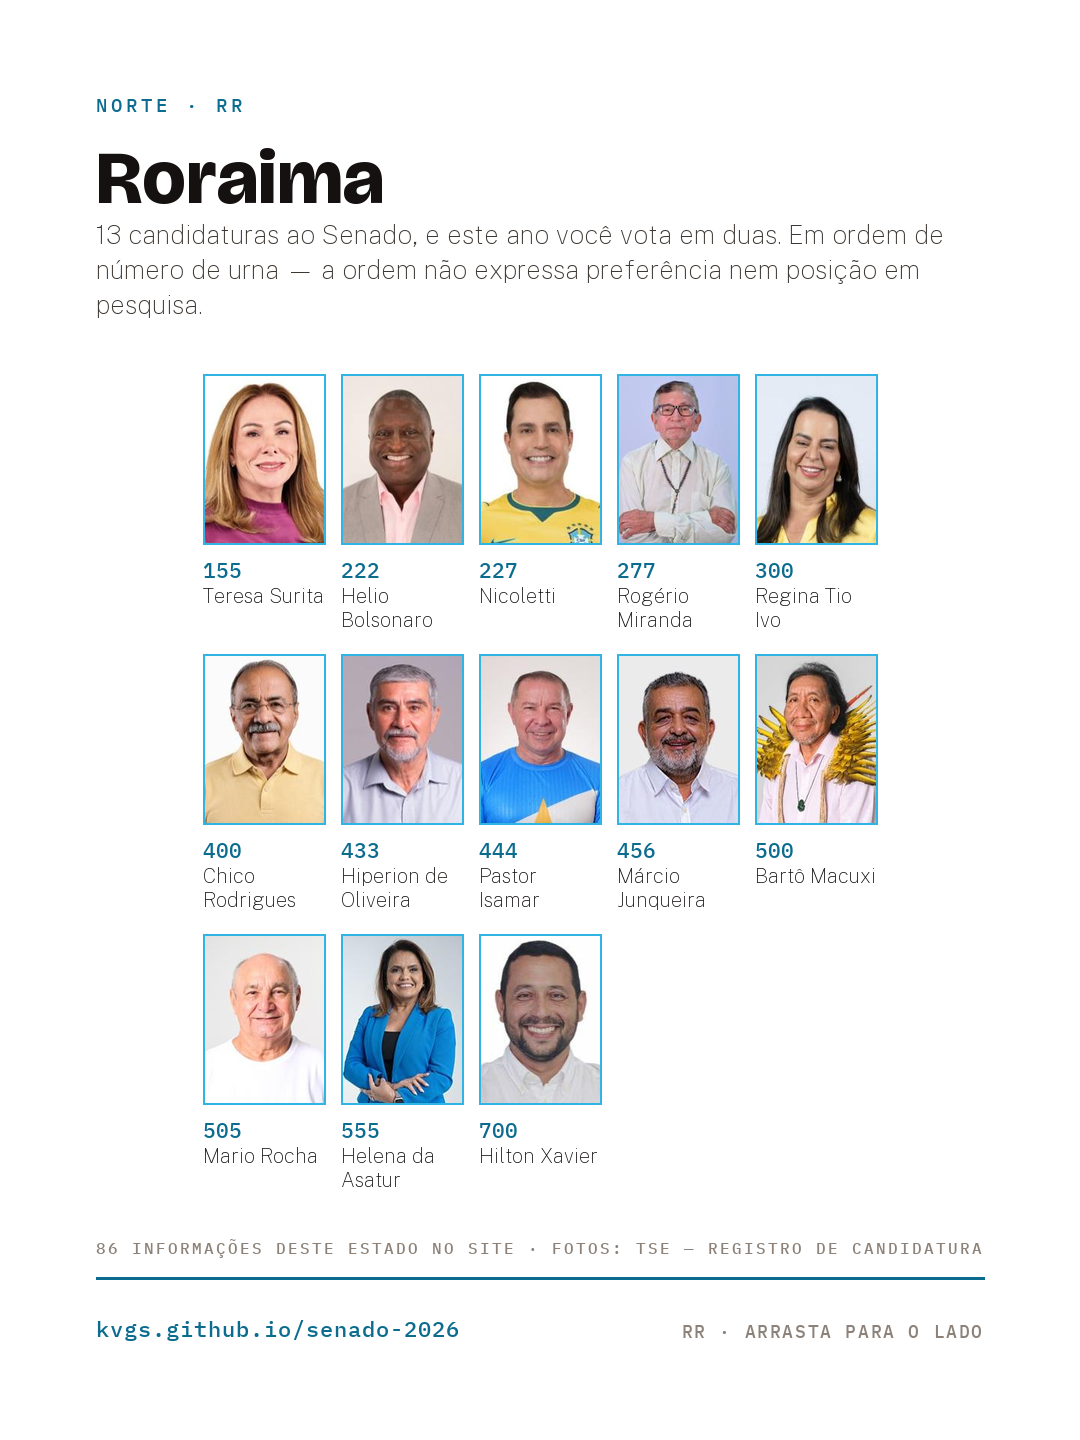
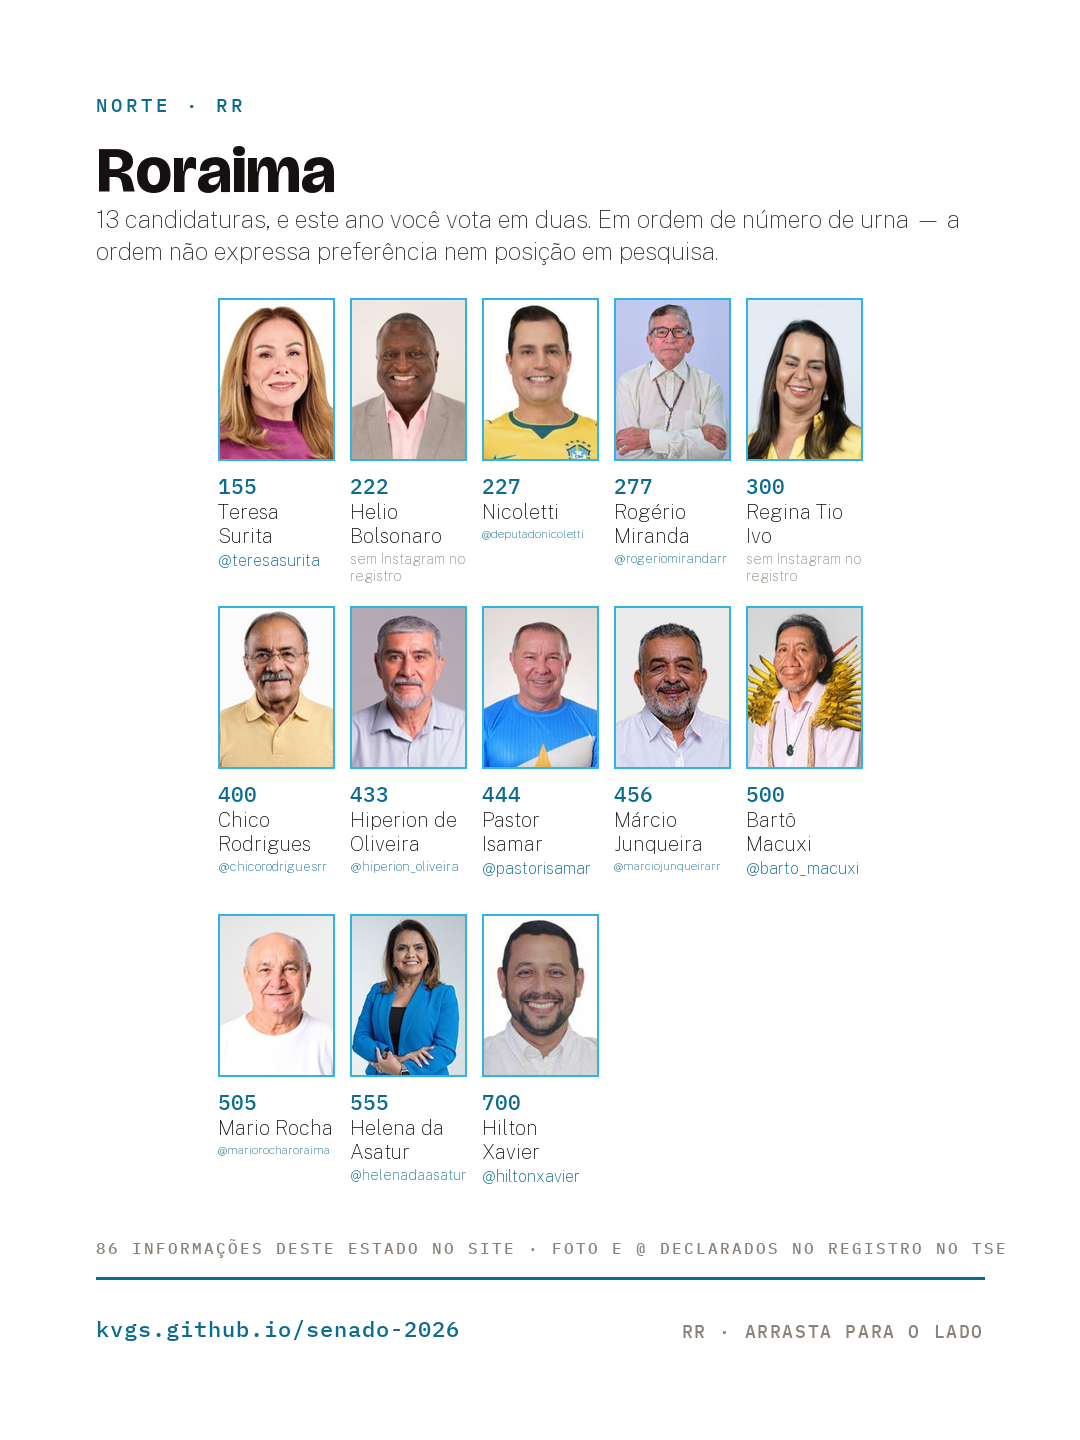
Os slides de estado ganham o @ do Instagram de cada candidatura
Abaixo do nome, o @ declarado ao TSE. No Norte, 60 das 74 tem; as outras 14
recebem "sem Instagram no registro".

"NAO LOCALIZADO" SERIA FALSO PARA A MAIORIA. Das 14 sem @, DEZ nao declararam
nada ao TSE — nao e que a busca falhou, e que nao ha o que buscar na fonte
oficial. Duas declararam outras redes e duas declararam algo que nao vira canal.
"Sem Instagram no registro" e verdade nos tres casos, e mantem a distincao que o
site inteiro faz entre ausencia da FONTE e ausencia da nossa BUSCA.

O @ VEM DO REGISTRO, E NUNCA DE BUSCA NOSSA. E a mesma regra do contato no site:
endereco achado em busca manda o eleitor escrever para um estranho.

AUDITEI OS 60 UM A UM antes de publicar, porque sao identificadores de pessoas
reais: todos saem de uma URL de instagram.com declarada ao TSE; nenhum e
repetido entre candidaturas; nenhum e pagina de partido. Dois vieram da
recuperacao de texto e foram conferidos na linha crua — o de Acir Gurgacz estava
como "INSTAGRAM: HTTPS://WWW.INSTAGRAM.COM/ACIR_GURGACZ/", so com rotulo na
frente.

Dois consertos vistos no PNG:
- OS @ VAZAVAM PARA A CELULA VIZINHA. quebra() corta em ESPACO, e handle nao tem
  espaco: ela devolvia a linha inteira, e "@chicorodrigues" caiu por cima de
  "@hiperion_oliveira". Agora o corpo da fonte cede primeiro e, se nem no menor
  couber, o @ quebra em duas linhas por LARGURA. Nunca com reticencias: handle
  cortado nao serve para procurar ninguem.
[…]

diff --git a/gerar_artes_regiao.py b/gerar_artes_regiao.py
@@ -28,6 +28,7 @@ from __future__ import annotations
 
 import argparse
 import importlib.util
+import re
 import pathlib
 import unicodedata
 
@@ -49,7 +50,16 @@ SOBRE_ESCURO, APAGADO, LINHA_ESCURA = _ar.SOBRE_ESCURO, _ar.APAGADO, _ar.LINHA_E
 RAIZ = pathlib.Path(__file__).resolve().parent
 FOTO_BORDA = "#2FB4E4"          # o mesmo token do site: --foto-borda
 COLS = 5
-CREDITO = "FOTOS: TSE — REGISTRO DE CANDIDATURA"
+CREDITO = "FOTO E @ DECLARADOS NO REGISTRO NO TSE"
+
+# "NAO LOCALIZADO" SERIA FALSO PARA A MAIORIA. Das 14 candidaturas do Norte sem
+# @, dez nao declararam nada ao TSE — nao e que a busca falhou, e que nao ha o
+# que buscar. Outras duas declararam redes que nao sao Instagram, e duas
+# declararam algo que nao vira canal. Uma frase so tem de ser verdade nos tres
+# casos, e "sem Instagram no registro" e: nenhuma das tres tem @ utilizavel no
+# registro. E a mesma distincao que o site inteiro faz entre ausencia da FONTE e
+# ausencia da nossa BUSCA.
+SEM_HANDLE = "sem Instagram no registro"
 
 
 def sem_acento(s: str) -> str:
@@ -58,6 +68,25 @@ def sem_acento(s: str) -> str:
 
 def pasta_da_regiao(regiao: str) -> str:
     return f"5-{sem_acento(regiao).lower().replace(' ', '-')}-quem-sao"
+
+
+def handle_de(c: dict) -> str | None:
+    """O @ vem do que a candidatura declarou AO TSE, e nunca de busca nossa.
+    Contato achado em busca manda o eleitor escrever para um estranho — e a
+    regra do projeto e que contato so entra de fonte oficial.
+
+    Primeiro o campo ja escolhido em contato.instagram; depois, qualquer URL de
+    instagram.com entre as redes declaradas. Caminhos que nao sao perfil (/p/,
+    /reel/) ficam de fora."""
+    ct = c.get("contato") or {}
+    h = (ct.get("instagram") or "").strip()
+    if h:
+        return h if h.startswith("@") else "@" + h
+    for u in (ct.get("redes") or []):
+        m = re.search(r"instagram\.com/@?([A-Za-z0-9._]{2,40})", u, re.I)
+        if m and m.group(1).lower() not in ("p", "reel", "reels", "explore", "channel", "stories"):
+            return "@" + m.group(1).lower()
+    return None
 
 
 def medir(regiao: str) -> dict:
@@ -75,6 +104,7 @@ def medir(regiao: str) -> dict:
             arq = (c.get("foto") or {}).get("arquivo")
             gente.append({"nome": c["pessoa"]["nome_urna"],
                           "numero": str(c["numero_urna"]),
+                          "handle": handle_de(c),
                           "foto": RAIZ / arq if arq else None})
         saida.append({"uf": e["uf"], "nome": e["nome"], "gente": gente,
                       "posicoes": len(pos)})
@@ -109,7 +139,42 @@ def cartao(t: Tela, p: dict, x: int, y: int, larg: int, alt_foto: int) -> int:
     for ln in linhas[:3]:
         t.d.text((x, yy), ln, font=fn, fill=TINTA)
         yy += int(fn.size * 1.22)
+
+    # O @ TEM DE CABER NA CELULA, E quebra() NAO RESOLVE ISSO. quebra() corta em
+    # ESPACO, e handle nao tem espaco nenhum: ela devolvia a linha inteira e o
+    # texto invadia a celula vizinha — "@chicorodrigues" por cima de
+    # "@hiperion_oliveira". Aqui o corpo cede primeiro; se nem no menor couber,
+    # o handle vira duas linhas cortadas por LARGURA, nunca por espaco.
+    yy += 2
+    if p["handle"]:
+        yy = escreve_handle(t, p["handle"], x, yy, larg)
+    else:
+        fh = f("corpo", 14)
+        for ln in t.quebra(SEM_HANDLE, fh, larg):
+            t.d.text((x, yy), ln, font=fh, fill=APAGADO)
+            yy += int(fh.size * 1.24)
     return yy
+
+
+def escreve_handle(t: Tela, handle: str, x: int, y: int, larg: int) -> int:
+    """Desenha o @ dentro da largura da celula, custe o corpo que custar."""
+    for corpo in (16, 15, 14, 13, 12):
+        fh = f("corpo", corpo)
+        if t.d.textlength(handle, font=fh) <= larg:
+            t.d.text((x, y), handle, font=fh, fill=CIANO_FUNDO)
+            return y + int(fh.size * 1.24)
+    # Nem no corpo 12: parte em duas linhas pela largura. Handle nunca e cortado
+    # com reticencias — cortado ele nao serve para procurar ninguem, que e a
+    # unica coisa que ele existe para fazer.
+    fh = f("corpo", 13)
+    corte = len(handle)
+    while corte > 1 and t.d.textlength(handle[:corte], font=fh) > larg:
+        corte -= 1
+    for parte in (handle[:corte], handle[corte:]):
+        if parte:
+            t.d.text((x, y), parte, font=fh, fill=CIANO_FUNDO)
+            y += int(fh.size * 1.24)
+    return y
 
 
 def arte_estado(d: dict, e: dict, i: int):
@@ -117,13 +182,12 @@ def arte_estado(d: dict, e: dict, i: int):
     t.y = 92
     t.mono(f"{d['regiao'].upper()} · {e['uf']}", f("mono", 19), CIANO_FUNDO, espacamento=4)
     t.espaco(14)
-    t.texto(e["nome"], f("display", 76), TINTA, entre=1.05, larg=900)
-    t.espaco(8)
-    t.texto(f"{len(e['gente'])} candidaturas ao Senado, e este ano você vota em duas. "
-            f"Em ordem de número de urna — a ordem não expressa preferência nem "
-            f"posição em pesquisa.",
-            f("corpo", 26), TINTA2, entre=1.38, larg=880)
-    t.espaco(40)
+    t.texto(e["nome"], f("display", 64), TINTA, entre=1.05, larg=900)
+    t.espaco(6)
+    t.texto(f"{len(e['gente'])} candidaturas, e este ano você vota em duas. Em ordem de "
+            f"número de urna — a ordem não expressa preferência nem posição em pesquisa.",
+            f("corpo", 24), TINTA2, entre=1.36, larg=880)
+    t.espaco(26)
 
     gap = 16
     linhas_n = -(-len(e["gente"]) // COLS)

diff --git a/artes-instagram/5-norte-quem-sao/LEGENDA.md b/artes-instagram/5-norte-quem-sao/LEGENDA.md
@@ -3,7 +3,7 @@
 Nove slides: capa clara, os sete estados em ordem alfabética, e o convite.
 A capa e o convite são bege; os estados, brancos — o carrossel tem começo,
 corpo e fim sem precisar de palavra dizendo isso.
-Foto, número de urna e nome, em ordem de número de urna.
+Foto, número de urna, nome e @ do Instagram — em ordem de número de urna.
 
 ---
 
@@ -13,7 +13,7 @@ Foto, número de urna e nome, em ordem de número de urna.
 
 São 7 estados, 74 candidaturas — e este ano você vota em duas.
 
-Deslize e veja todas: foto, número de urna e nome, estado por estado. 👉
+Deslize e veja todas: foto, número de urna, nome e o @ do Instagram, estado por estado. 👉
 
 **Se você ainda não decidiu, comente aqui o que te deixa indeciso.** Um tema que
 falta, uma dúvida sobre alguém, uma fonte que você conhece e o site não tem. O
@@ -24,7 +24,13 @@ Duas coisas sobre como isto é feito:
 ▪ A ordem é a do **número de urna**, e só. Este site não ordena candidaturas por
 preferência, por pesquisa nem por nada que pareça um ranking.
 
-▪ As fotos são as do **registro no TSE** — as mesmas que aparecem na urna.
+▪ As fotos e os **@ do Instagram** vêm do que cada candidatura declarou no
+registro no TSE. Nada aqui foi procurado por nós: contato achado em busca manda
+o eleitor escrever para um estranho.
+
+▪ Onde está escrito **"sem Instagram no registro"**, é isso mesmo — a
+candidatura não declarou um Instagram utilizável ao TSE. Não é que não
+procuramos: é que não há o que buscar na fonte oficial.
 
 No próximo carrossel começa a outra metade: **o que cada uma defende**, tema por
 tema, com a fonte de cada informação ao lado.
@@ -46,6 +52,16 @@ tema, com a fonte de cada informação ao lado.
 - **Nome nunca é cortado.** Se não couber em duas linhas, o corpo diminui.
 - Cada slide traz quantas informações daquele estado já estão no site.
 - `--sem-capa` gera o carrossel abrindo direto na primeira grade de rostos.
+- **O @ nunca é cortado.** O corpo da fonte cede primeiro; se nem no menor
+  couber, ele quebra em duas linhas por largura. Handle cortado não serve para
+  procurar ninguém, que é a única coisa que ele existe para fazer.
+- **"Sem Instagram no registro", e não "não localizado".** Dos 14 do Norte sem
+  @, dez não declararam nada ao TSE — não é que a busca falhou, é que não há o
+  que buscar. Dois declararam outras redes e dois declararam algo que não vira
+  canal. A frase escolhida é verdadeira nos três casos.
+- **Os 60 @ do Norte foram auditados um a um:** todos vêm de uma URL de
+  instagram.com declarada ao TSE, nenhum é repetido entre candidaturas e nenhum
+  é página de partido.
 
 ## Para os próximos posts
 
